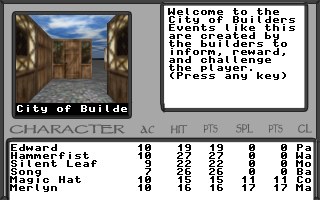
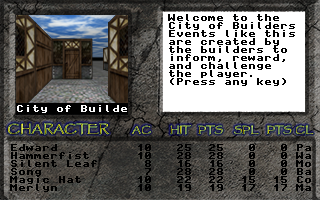
Added -u or --multiplier option. This allows you to lock the display multiplier. Useful if you want screenshots at a particular multiplier.

diff --git a/src/display.C b/src/display.C
@@ -30,8 +30,8 @@ BTSound::~BTSound()
  }
 }
 
-BTDisplay::BTDisplay(BTDisplayConfig *c, bool physfs /*= true*/)
- : fullScreen(false), config(c), xMult(0), yMult(0), status(*this), textPos(0), p3d(this, 0, 0), mainScreen(0), mainBackground(0), picture(-1), ttffont(0), sfont(&simple8x8), mapXStart(0), mapYStart(0)
+BTDisplay::BTDisplay(BTDisplayConfig *c, bool physfs /*= true*/, int multiplier /*= 0*/)
+ : fullScreen(false), config(c), xMult(multiplier), yMult(multiplier), lockMult(multiplier), status(*this), textPos(0), p3d(this, 0, 0), mainScreen(0), mainBackground(0), picture(-1), ttffont(0), sfont(&simple8x8), mapXStart(0), mapYStart(0)
 {
  animation.animation = 0;
  animation.frame = 0;
@@ -52,16 +52,16 @@ BTDisplay::BTDisplay(BTDisplayConfig *c, bool physfs /*= true*/)
    xMult = yMult;
   else
    yMult = xMult;
-  expanded = config->findExpanded(xMult, yMult);
-  if (expanded)
-  {
-   xMult = ((xFull - 10) / (config->width * expanded->xMult)) * expanded->xMult; // Allow for window decoration
-   yMult = ((yFull - 10) / (config->height * expanded->yMult)) * expanded->yMult; // Allow for window decoration
-   if (xMult > yMult)
-    xMult = yMult;
-   else
-    yMult = xMult;
-  }
+ }
+ expanded = config->findExpanded(xMult, yMult);
+ if (expanded)
+ {
+  xMult = ((xFull - 10) / (config->width * expanded->xMult)) * expanded->xMult; // Allow for window decoration
+  yMult = ((yFull - 10) / (config->height * expanded->yMult)) * expanded->yMult; // Allow for window decoration
+  if (xMult > yMult)
+   xMult = yMult;
+  else
+   yMult = xMult;
  }
  p3d.setMultiplier(xMult, yMult);
  label.x = config->label.x * xMult;
@@ -1012,12 +1012,17 @@ void BTDisplay::setConfig(BTDisplayConfig *c)
   animation.animation = NULL;
   removeAnimation(&animation);
  }
- int newXMult = (xFull - 10) / c->width; // Allow for window decoration
- int newYMult = (yFull - 10) / c->height; // Allow for window decoration
- if (newXMult > newYMult)
-  newXMult = newYMult;
- else
-  newYMult = newXMult;
+ int newXMult = lockMult;
+ int newYMult = lockMult;
+ if ((newXMult == 0) || (newYMult == 0))
+ {
+  newXMult = (xFull - 10) / c->width; // Allow for window decoration
+  newYMult = (yFull - 10) / c->height; // Allow for window decoration
+  if (newXMult > newYMult)
+   newXMult = newYMult;
+  else
+   newYMult = newXMult;
+ }
  expanded = c->findExpanded(newXMult, newYMult);
  if (expanded)
  {

diff --git a/src/mainscreen.C b/src/mainscreen.C
@@ -20,8 +20,8 @@
 
 namespace fs = boost::filesystem;
 
-BTMainScreen::BTMainScreen(const char *a0, std::string lDir)
- : argv0(a0), libDir(lDir), mainConfig(0), display(0)
+BTMainScreen::BTMainScreen(const char *a0, std::string lDir, int mult /*= 0*/)
+ : argv0(a0), libDir(lDir), mainConfig(0), display(0), multiplier(mult)
 {
 }
 
@@ -36,7 +36,7 @@ BTMainScreen::~BTMainScreen()
 void BTMainScreen::run()
 {
  loadMainConfig();
- display = new BTDisplay(mainConfig, true);
+ display = new BTDisplay(mainConfig, true, multiplier);
  std::vector<std::string> fileModule;
  XMLVector<BTModule*> module;
  fs::directory_iterator end_iter;
@@ -101,7 +101,7 @@ void BTMainScreen::runModule(std::string moduleFile)
  }
  else
  {
-  display = new BTDisplay(&config);
+  display = new BTDisplay(&config, multiplier);
  }
  BTGame::getGame()->run(*display);
  if (mainConfig)
@@ -124,7 +124,7 @@ void BTMainScreen::editModule(std::string moduleFile, std::string mapFile /*= st
  if (!display)
  {
   loadMainConfig();
-  display = new BTDisplay(mainConfig);
+  display = new BTDisplay(mainConfig, true, multiplier);
  }
  if (mapFile.empty())
   editor.edit(*display);

diff --git a/src/main.C b/src/main.C
@@ -94,6 +94,7 @@ int main(int argc, char *argv[])
   {"editmap", 1, 0, 'e'},
   {"ascii", 0, 0, 'a'},
   {"xml", 1, 0, 'x'},
+  {"multiplier", 1, 0, 'u'},
   {0, 0, 0, 0}
  };
 
@@ -101,8 +102,9 @@ int main(int argc, char *argv[])
  int mode = MODE_STANDARD;
  char *mapFile = NULL;
  char *xmlFile = NULL;
+ int multiplier = 0;
  std::string libDir(TOSTRING(BTBUILDERDIR));
- while ((opt = getopt_long(argc,argv,"imsap:x:e:l:", long_options, NULL)) != EOF)
+ while ((opt = getopt_long(argc,argv,"imsap:x:e:l:u:", long_options, NULL)) != EOF)
  {
   switch (opt)
   {
@@ -144,12 +146,18 @@ int main(int argc, char *argv[])
      xmlFile = strdup(optarg);
     }
     break;
+   case 'u':
+    if (optarg)
+    {
+     multiplier = atol(optarg);
+    }
+    break;
    default:
     break;
   }
  }
 
- BTMainScreen mainScreen(argv[0], libDir);
+ BTMainScreen mainScreen(argv[0], libDir, multiplier);
  if (optind >= argc)
  {
   if (mode != MODE_STANDARD)

diff --git a/src/display.h b/src/display.h
@@ -84,7 +84,7 @@ class BTAnimation
 class BTDisplay : public ImageLoader
 {
  public:
-  BTDisplay(BTDisplayConfig *c, bool physfs = true);
+  BTDisplay(BTDisplayConfig *c, bool physfs = true, int multiplier = 0);
   ~BTDisplay();
 
   enum alignment { left, center, right };
@@ -161,7 +161,7 @@ class BTDisplay : public ImageLoader
   bool fullScreen;
   BTDisplayConfig *config;
   BTDisplayExpanded *expanded;
-  int xMult, yMult;
+  int xMult, yMult, lockMult;
   SDL_Rect label;
   std::string labelText;
   SDL_Rect text;

diff --git a/src/mainscreen.h b/src/mainscreen.h
@@ -17,7 +17,7 @@ class physfsException : public std::exception
 class BTMainScreen
 {
  public:
-  BTMainScreen(const char *a0, std::string lDir);
+  BTMainScreen(const char *a0, std::string lDir, int mult = 0);
   ~BTMainScreen();
 
   void run();
@@ -35,6 +35,7 @@ class BTMainScreen
   std::string libDir;
   BTDisplayConfig *mainConfig;
   BTDisplay *display;
+  int multiplier;
 };
 
 #endif
